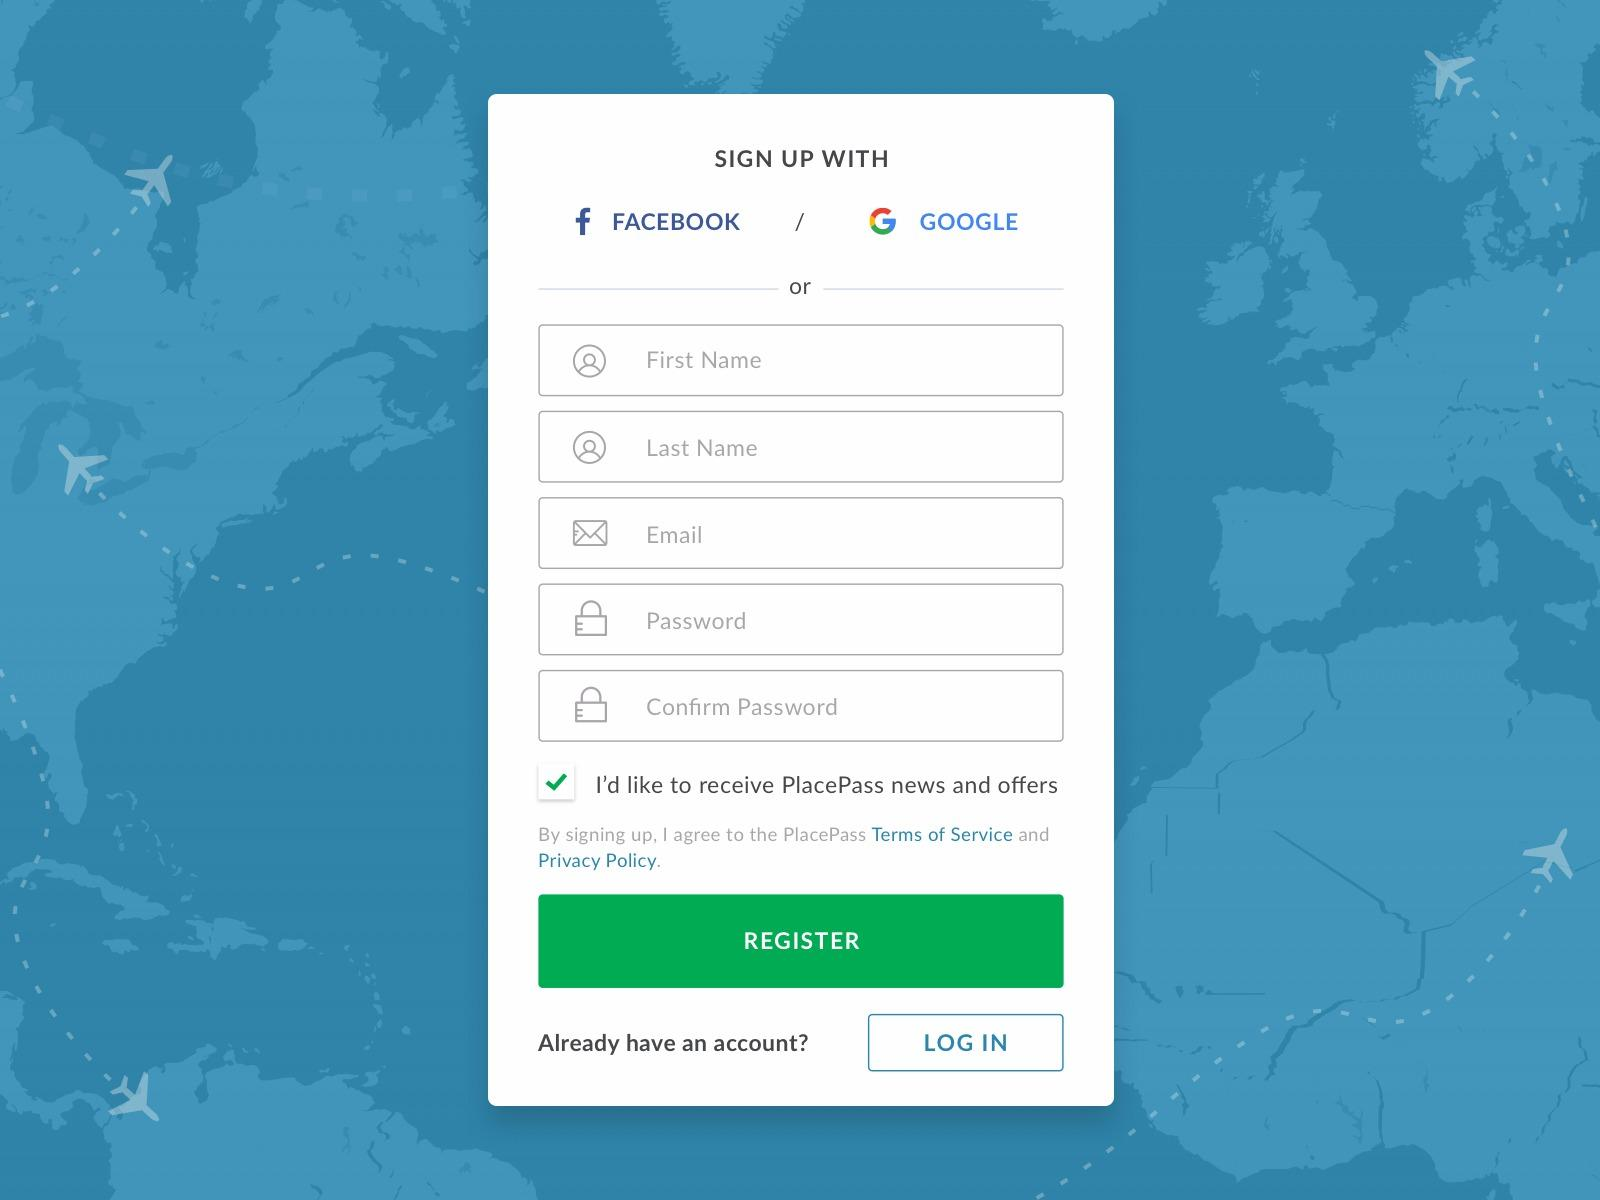
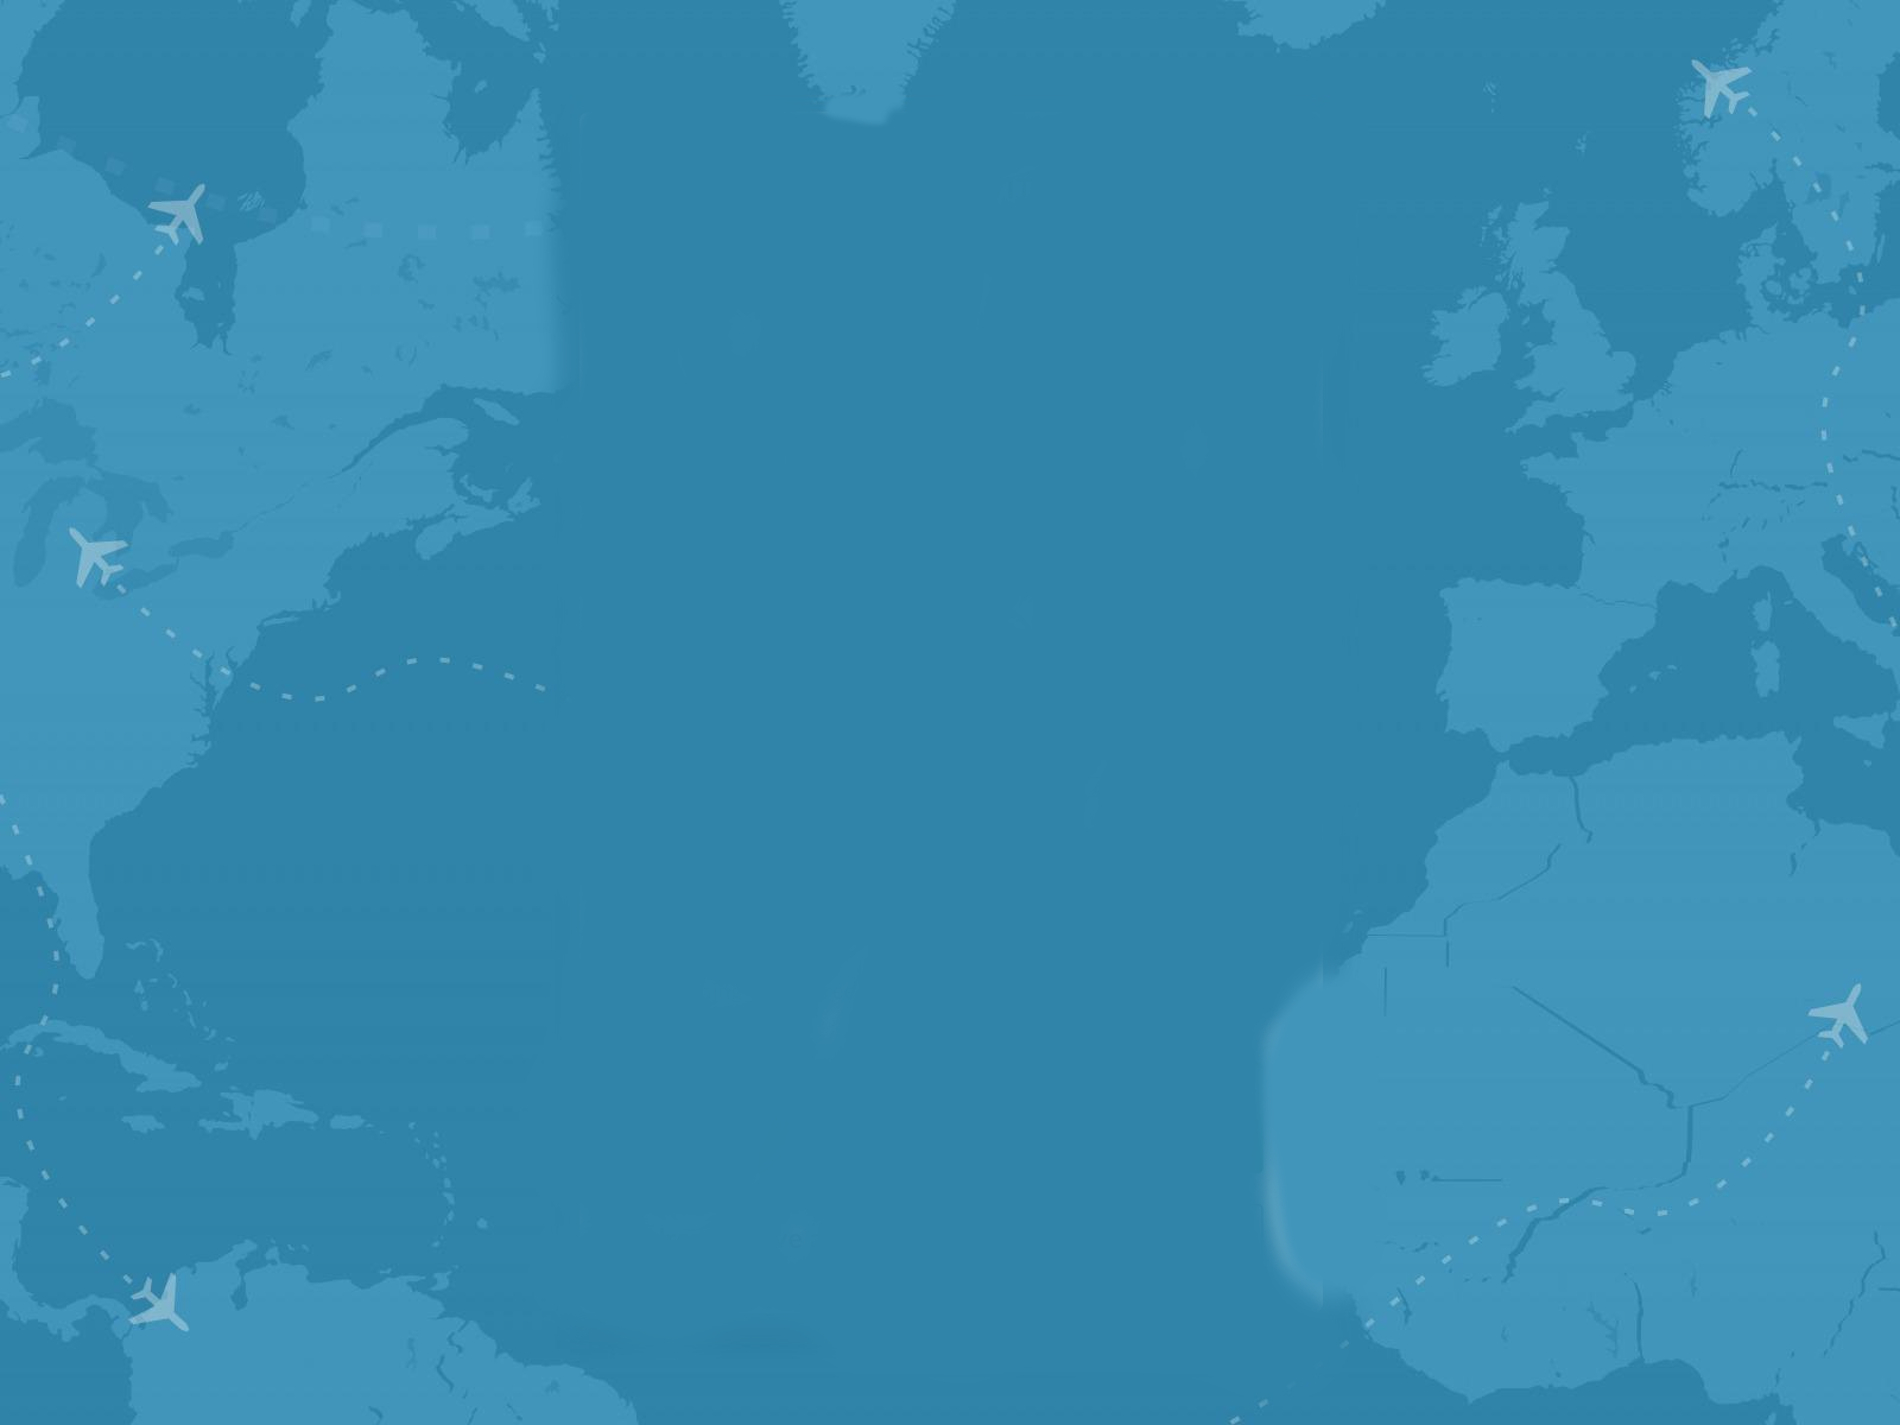
change background

diff --git a/custom_auth/templates/base.html b/custom_auth/templates/base.html
@@ -36,6 +36,14 @@
 </script>
 
 <style>
+    html{
+        height: 100%;
+    }
+    body {
+        background-image: url('{% get_media_prefix %}1.jpg');
+        background-repeat: no-repeat;
+        background-size: 100% 100%;
+    }
     #customBtn {
           display: inline-block;
           background: white;
